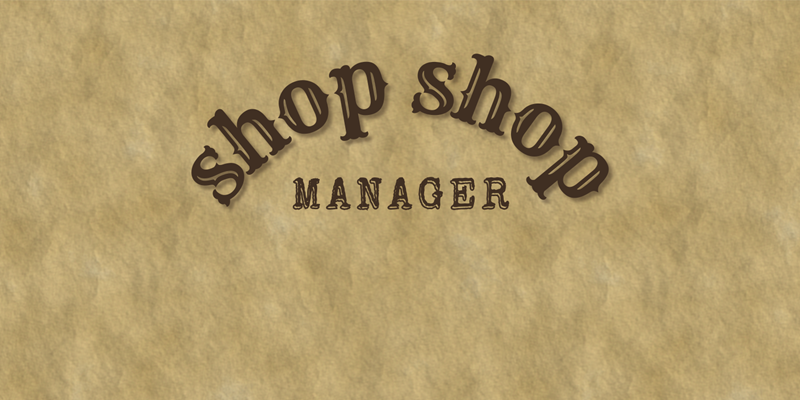
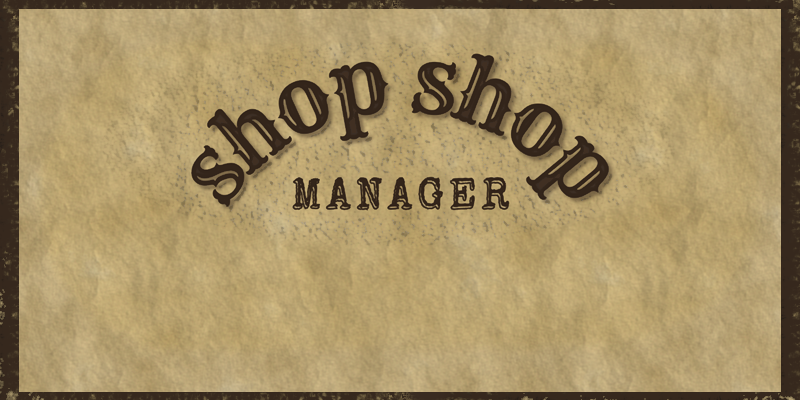
Refactored ui_controls Module
- Deleted Button and Box classes in the ui_controls module and refactored them into the Clickable class.
- Changed the art of the initial screen.

Changed region(s): [[0.0, 0.0, 1.0, 1.0]]

diff --git a/src/ui_controls.py b/src/ui_controls.py
@@ -3,60 +3,61 @@ import time
 
 pygame.mixer.init()
 
-class Button:
-    def __init__(self, x, y, text):
+class Clickable:
+    def __init__(self, x, y, item_or_text, is_text=False):
         self.x = x
         self.y = y
-        self.text = text
-        self.default_button_image = pygame.image.load(r"D:\Projects\Python-studies\shop_shop_manager\images\button_image.png")
-        self.hover_button_image = pygame.image.load(r"D:\Projects\Python-studies\shop_shop_manager\images\button_image_hover.png")
+        self.item_or_text = item_or_text
+        self.is_text = is_text
         
-        self.current_image = self.default_button_image
-        self.rect = self.current_image.get_rect(topleft=(x, y))
-        self.font = pygame.font.Font(None, 36)
-        self.text_surface = self.font.render(text, True, (255, 255, 255))
-        
-        # Load the click sound effect
-        self.button_click_sound = pygame.mixer.Sound(r"D:\Projects\Python-studies\shop_shop_manager\music\sound_effects\button_click.mp3")
-        
-        # Variables for click sound timing control
-        self.last_click_time = time.time() - 0.5  # Allow immediate first click
-        self.click_delay = 0.5  # Delay between consecutive clicks (in seconds)
+        if is_text:
+            self.default_image = pygame.image.load(r"D:\Projects\Python-studies\shop_shop_manager\images\button_image.png")
+            self.hover_image = pygame.image.load(r"D:\Projects\Python-studies\shop_shop_manager\images\button_image_hover.png")
+            
+            self.click_sound = pygame.mixer.Sound(r"D:\Projects\Python-studies\shop_shop_manager\music\sound_effects\button_click.mp3")
+            self.click_delay = 0.5  # Delay between consecutive clicks (in seconds)
+            
+            self.font = pygame.font.Font(None, 36)
+            self.text_surface = self.font.render(item_or_text, True, (255, 255, 255))
+        else: 
+            self.default_image = pygame.image.load(r"D:\Projects\Python-studies\shop_shop_manager\images\box.png")
+            #self.hover_image = None // Should I add a hover effect for the box too?
 
+            self.click_sound = pygame.mixer.Sound(r"D:\Projects\Python-studies\shop_shop_manager\music\sound_effects\box_click.mp3")
+            self.click_delay = 0.8  # Delay between consecutive clicks (in seconds)
+
+        self.current_image = self.default_image
+        self.rect = self.current_image.get_rect(topleft=(x, y))
+        
+        self.last_click_time = time.time() - self.click_delay  # Allow immediate first click
+        
     def is_hovered(self):
         mouse_position = pygame.mouse.get_pos()
         return self.rect.collidepoint(mouse_position)
 
-    def button_draw(self, screen):
+    def draw_image(self, screen):
         screen.blit(self.current_image, self.rect.topleft)
-        text_rect = self.text_surface.get_rect(center=self.rect.center)
-        screen.blit(self.text_surface, text_rect)
+        if self.is_text:
+            text_rect = self.text_surface.get_rect(center=self.rect.center)
+            screen.blit(self.text_surface, text_rect)
 
-    def button_update_state(self, handle_click_event):
-        if self.is_hovered(): # Check if the cursor is hovering the button
-            self.current_image = self.hover_button_image # Switch to hover button image
-
-            # Check if the user clicked the button
-            if handle_click_event.type == pygame.MOUSEBUTTONDOWN and handle_click_event.button == 1:
-                current_time = time.time() # Get the current time in seconds
-
-                 # Check if enough time has passed since the last click to allow another click sound
-                if current_time - self.last_click_time >= self.click_delay:
-                    self.button_click_sound.play()  # Play click sound
-                    self.last_click_time = current_time  # Update the last click time to the current time
+    def update_state(self, handle_click_event):
+        # Change default image for the image with hover effect
+        if self.is_hovered() and self.is_text:            
+            self.current_image = self.hover_image
         else:
-            self.current_image = self.default_button_image
-
-class Box:
-    def __init__(self, x, y, item):
-        self.x = x
-        self.y = y
-        self.text = item
-        self.box_container = pygame.image.load(r"D:\Projects\Python-studies\shop_shop_manager\images\box.png")
-        self.rect = self.box_container.get_rect(topleft=(x, y))
-
+            self.current_image = self.default_image
         
-    def box_draw(self, screen):
-        screen.blit(self.box_container, self.rect.topleft)
+        if handle_click_event.type == pygame.MOUSEBUTTONDOWN and handle_click_event.button == 1:
+            current_time = time.time()  # Get the current time in seconds
+            if self.rect.collidepoint(pygame.mouse.get_pos()):                
+                # print(pygame.mouse.get_pos()) [BUG] if is_text = False it returns multiple clicks
 
-   
+                # Adds a delay to the sound effect
+                if current_time - self.last_click_time >= self.click_delay:                    
+                    self.click_sound.play()
+                    self.last_click_time = current_time
+
+# Example usage:
+# button = Clickable(100, 100, "Click Me", is_button=True)
+# box = Clickable(200, 200, "item_name", is_button=False)

diff --git a/src/initial_menu.py b/src/initial_menu.py
@@ -1,20 +1,20 @@
 import pygame
-from ui_controls import Button
+from ui_controls import *
 
 # Initialize button
 pygame.font.init()
-button = Button(254, 280, "Play Game")
+button = Clickable(254, 280, "Play Game", True)
 main_background_image = pygame.image.load(r"D:\Projects\Python-studies\shop_shop_manager\images\shop_shop_manager.png")
 
-def handle_button_click(mouse_event):    
+def handle_click(mouse_event):
     if mouse_event.type == pygame.MOUSEBUTTONDOWN and mouse_event.button == 1:
         if button.rect.collidepoint(mouse_event.pos):
             return True  # Starts the game 
     return False
 
-def update_game_screen(display_surface, any_mouse_event):
-    button.button_update_state(any_mouse_event)
+def update_initial_screen(display_surface, any_mouse_event):
+    button.update_state(any_mouse_event)
     
     # Draw everything on the screen
     display_surface.blit(main_background_image, (0, 0))
-    button.button_draw(display_surface)
+    button.draw_image(display_surface)

diff --git a/src/main.py b/src/main.py
@@ -1,5 +1,5 @@
 import pygame
-import initial_menu
+import initial_menu 
 from gameplay import *
 from music import *
 
@@ -20,16 +20,15 @@ while running:
     # Handle events
     for event in pygame.event.get():
         if event.type == pygame.QUIT:
-            running = False # Exit the loop if the user closes the window
-        
+            running = False # Exit the loop if the user closes the window        
    
     # Checks and update the current music
     check_current_music(mp3_files)  
 
      # Updates button state and draw the initial menu
     if not game_started:
-        game_started = initial_menu.handle_button_click(event)
-        initial_menu.update_game_screen(screen, event)
+        game_started = initial_menu.handle_click(event)
+        initial_menu.update_initial_screen(screen, event)
     else:
         # Starts the game
         main_game(screen, event)

diff --git a/src/gameplay.py b/src/gameplay.py
@@ -2,15 +2,19 @@ import pygame
 from ui_controls import *
 
 #main game here
-
+pygame.mixer.init()
+box = Clickable(10, 350, None,  False)
 town_background_image = pygame.image.load(r"D:/Projects/Python-studies/shop_shop_manager/images/town_background_one.png")
 
 def main_game(screen, event):
     # Main game logic here
     screen.blit(town_background_image, (0, 0))
 
-    box = Box(10, 350, None)
-    box.box_draw(screen)
+    
+    box.draw_image(screen)
+    
+    # Handle box click event
+    box.update_state(event)
 
     # Update display to show the new frame
     pygame.display.flip()

diff --git a/src/music.py b/src/music.py
@@ -11,7 +11,7 @@ mp3_files = [os.path.join(playlist_dir, file) for file in os.listdir(playlist_di
 def start_music(mp3_files):
     if mp3_files:
         pygame.mixer.music.load(mp3_files[0])
-        pygame.mixer.music.set_volume(0.2)  # Set volume to 20%
+        pygame.mixer.music.set_volume(0.1)  # Set volume to 10%
         pygame.mixer.music.play()
         print(f"Playing {mp3_files[0]}")
 
